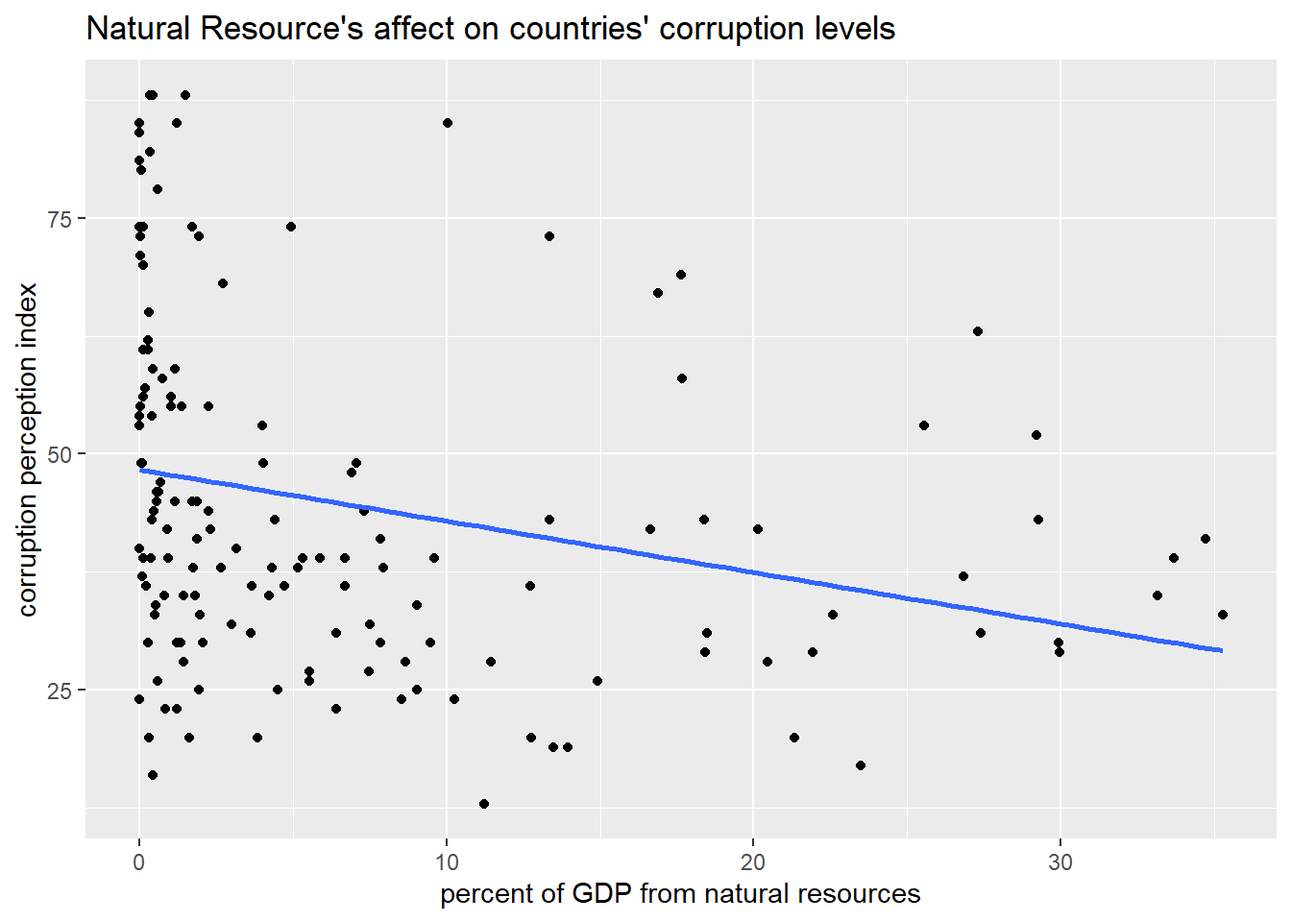
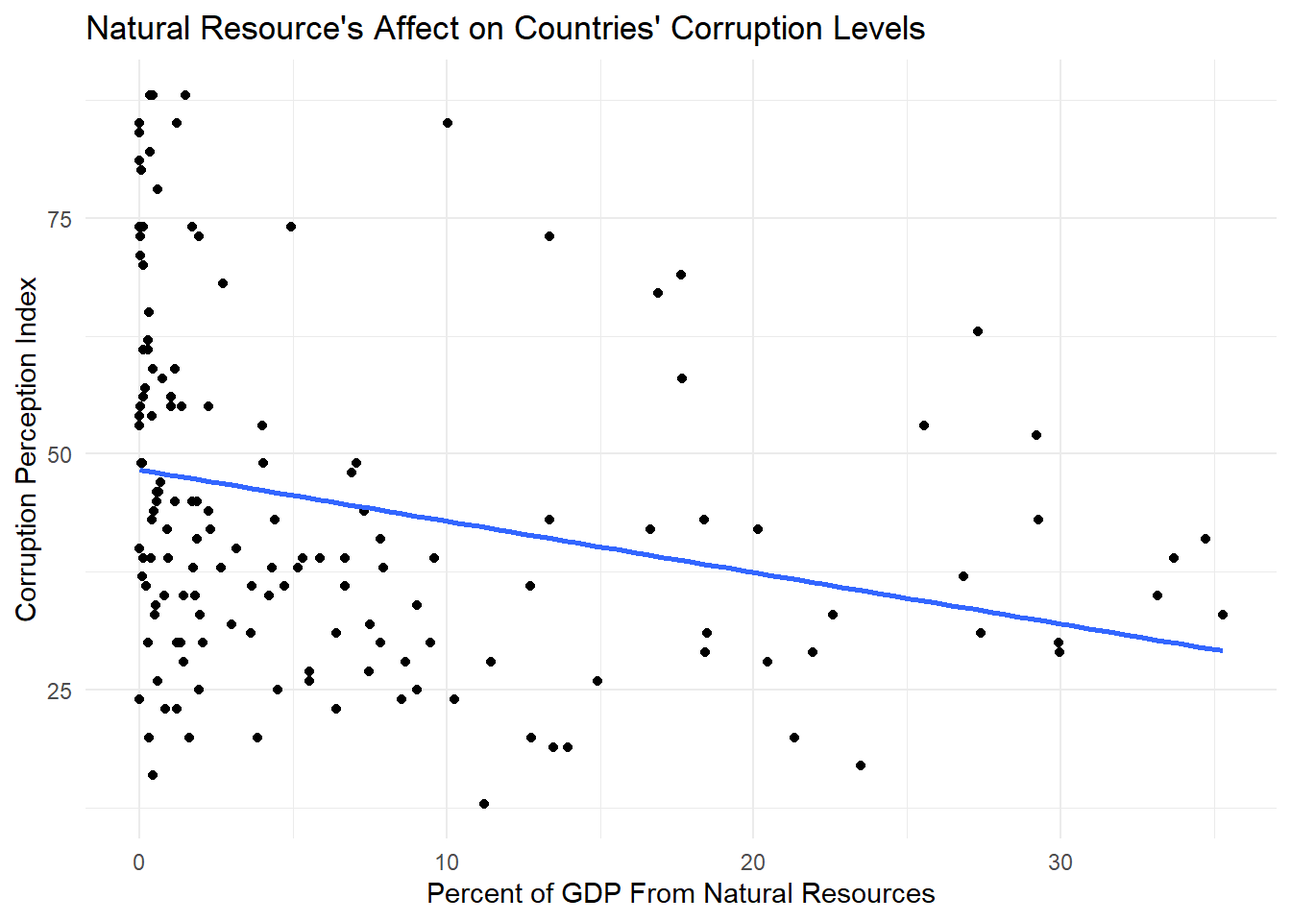
spelling and graph corrections

Changed region(s): [[0.2812, 0.0, 0.7188, 0.0625], [0.3438, 0.9375, 0.7188, 1.0], [0.0, 0.2812, 0.0312, 0.6875]]

diff --git a/docs/posts/Natural_resource_corruption/index.html b/docs/posts/Natural_resource_corruption/index.html
@@ -205,10 +205,10 @@ pre > code.sourceCode > span > a:first-child::before { text-decoration: underlin
 
 
 
-<p>Corruption is an issue in countries across the world. Government structures are complicated, intertwined, and often run behind closed doors. This makes it extremely difficult to solve. What are the main influences on a country’s corruption level? Is it even quantifiable? I was motivated by these questions to take a stab at a small piece of the corruption puzzle.</p>
-<p>In this post we attempt to answer the question <strong>does the percent of GDP from natural resources affect countries’ corruption levels?</strong></p>
+<p>Corruption is an issue in countries across the world. Government structures are complicated, intertwined, and often run behind closed doors. This makes corruption as a whole extremely difficult to solve. What are the main influences on a country’s corruption level? Is it even quantifiable? I was motivated by these questions to take a stab at looking at a small piece of the corruption puzzle.</p>
+<p>In this post we attempt to answer the question <strong>Does the percent of GDP from natural resources affect countries’ corruption levels?</strong></p>
 <p>My theory is that having natural resources that provide a large revenue source for a country could potentially invite corruption. Public officials may bribe gas, oil, or logging companies for a cut in the profit. Those companies may also bribe or attempt to coerce the government into larger sales or more land. Public officials may also prioritize company profits over public welfare, which has the potential to have large impacts on policy decisions that affect citizens.</p>
-<p>The theory that I am describing is a very simplified version of a well-studied and highly debated issue of <em>the resource curse</em>. Essentially natural resource wealth in countries (specifically developing countries) can lead to perverse effects on economic, social, and political well being. Case studies around the world have proved this to be true (although there is also case study evidence of the resource curse being “illusory”).</p>
+<p>The theory that I am describing is a very simplified version of a well-studied and highly debated issue called <em>the resource curse</em>. Essentially, natural resource wealth in countries (specifically developing countries) can lead to perverse effects on economic, social, and political well being. Case studies around the world have proved this to be true (although there is also case study evidence of the resource curse being “illusory”).</p>
 <table class="caption-top table">
 <colgroup>
 <col style="width: 100%">
@@ -226,29 +226,30 @@ pre > code.sourceCode > span > a:first-child::before { text-decoration: underlin
 </table>
 <p>Everyone wants to solve corruption, but it’s a lot easier said than done. Corruption is a complicated issue with far more influences than most researchers are able to analyze in years of study, and certainly more than I can analyze in this short post.</p>
 <p>My analysis plan is to create visualizations and linear models that can help us to examine the possibility of a significant correlation between the percent of GDP in a country that comes from natural resources versus our corruption perception index.</p>
+<p>My plan is as follows:</p>
 <ol type="1">
-<li>read in data and clean</li>
-<li>make preliminary plot</li>
-<li>run a linear model</li>
-<li>graph the best fit line</li>
-<li>analyze results</li>
+<li>Read in and clean data</li>
+<li>Make preliminary plot</li>
+<li>Run linear model</li>
+<li>Graph best fit line</li>
+<li>Analyze results</li>
 </ol>
 <section id="sources" class="level2">
 <h2 class="anchored" data-anchor-id="sources">Sources</h2>
 <section id="corruption-perception-index" class="level3">
 <h3 class="anchored" data-anchor-id="corruption-perception-index">Corruption Perception Index</h3>
 <p><img src="https://images.transparencycdn.org/images/CPI2021_Map_EN_2022-01-24-142835_wbln.jpg" alt="Corruption Perception Index 2021 Map" width="500"></p>
-<p>Our data comes from two different sources. The first source is for our corruption level data. We used a dataset from <em>Transparency International</em>, an organization that works to fight corruption worldwide. The organization has many facets, including a think tank, a UNESCO consultant, and is involved in the UN.</p>
-<p>They created a corruption perceptions index, which measures levels of corruption in 180 countries around the world from 0 (highly corrupt) to 100 (very clean). Transparency International takes data from 13 sources, such as banks, think tanks, and research advisory firms around the world. Each of these organizations ask leading experts in their field multiple questions that can be used to gage corruption levels. Some sources only cover specific regions or continents, while others cover the majority of the world. Transparency International then takes the information and standardizes it on a scale of zero to one hundred,“this standardisation is done by subtracting the mean of each source in the baseline year from each country score and then dividing by the standard deviation of that source in the baseline year [and]… …transformed to the CPI scale by multiplying with the value of the CPI standard deviation in 2012 (20) and adding the mean of CPI in 2012 (45), so that the data set fits the CPI’s 0-100 scale” (CPI report short methodology 2021). They then calculate the average for each country to find their published score.</p>
+<p>Our data comes from two different sources. The first is for our corruption level data. We used a dataset from <em>Transparency International</em>, an organization that works to fight corruption worldwide. The organization has many facets, including acting as a think tank, a UNESCO consultant, and is involved in the UN.</p>
+<p>They created a corruption perceptions index, which measures levels of corruption in 180 countries around the world from 0 (highly corrupt) to 100 (very clean). Transparency International takes data from 13 sources, such as banks, think tanks, and research advisory firms around the world. Each of these organizations ask leading experts in their field multiple questions that can be used to gauge corruption levels. Some sources only cover specific regions or continents, while others cover the majority of the world. Transparency International then takes the information and standardizes it on a scale of zero to one hundred,“this standardization is done by subtracting the mean of each source in the baseline year from each country score and then dividing by the standard deviation of that source in the baseline year [and]… …transformed to the CPI scale by multiplying with the value of the CPI standard deviation in 2012 (20) and adding the mean of CPI in 2012 (45), so that the data set fits the CPI’s 0-100 scale” (CPI report short methodology 2021). They then calculate the average for each country to find their published score.</p>
 <section id="limitations-of-the-data" class="level4">
 <h4 class="anchored" data-anchor-id="limitations-of-the-data">Limitations of the data</h4>
-<p>The data itself, as well as the way I use it comes with some caveats. Firstly, Transparency International uses varying organizations to get these scores, which in turn use varying methods to get their scores. Although the scores are then standardized, it is still not a completely equal comparison for every single country. In my statistical analysis, I use this corruption <strong>perception</strong> index as a true corruption index for each country. There are clearly limitations to what anyone can truly know about the country in their country, and this index simply measures perceptions for that very reason, but for the purposes of my calculations I treat these numbers as true and fair values. In order to simplify my analysis, I am also not including the standard errors for these values, which could potentially oversimplify the results of the index.</p>
+<p>The data itself, as well as the way I use it, comes with some caveats. Firstly, Transparency International uses varying organizations to get these scores, which in turn use varying methods. Although the scores are then standardized, it is still not a completely equal comparison for every single country. In my statistical analysis, I use this corruption <strong>perception</strong> index as a true corruption index for each country. There are clearly limitations to what anyone can truly know about the corruption in their country, and this index simply measures perceptions for that very reason. For the purposes of my calculations, I treat these numbers as true and fair values. In order to simplify my analysis, I am also not including the standard errors for these values, which could potentially oversimplify the results of the index.</p>
 <p>Transparency International. (2021). 2021 Corruptions Perceptions Index. Transparency.org. https://www.transparency.org/en/cpi/2021.</p>
 </section>
 </section>
 <section id="percent-of-gdp-from-natural-resources" class="level3">
 <h3 class="anchored" data-anchor-id="percent-of-gdp-from-natural-resources">Percent of GDP from Natural Resources</h3>
-<p>The natural resource data comes from the World Bank Group, an organization with 189 member countries, working to give funds to low income countries. Their site also has a catalog of open data about economic development worldwide. The dataset we used was the “World Development Indicators: Contribution of natural resources to gross domestic product” table. I have used data from 2021 in order to have consistency in the year across the board.</p>
+<p>The natural resource data comes from the World Bank Group, an organization with 189 member countries, working to give funds to low income countries. Their site also contains a catalog of open data about economic development worldwide. The dataset we used was the “World Development Indicators: Contribution of natural resources to gross domestic product” table. I have used data from 2021 in order to have consistency in year across the board.</p>
 <section id="limitations-of-the-data-1" class="level4">
 <h4 class="anchored" data-anchor-id="limitations-of-the-data-1">Limitations of the data</h4>
 <p>Although this data is open source, we have no information about how these numbers were acquired. We trust at face value that this dataset is correct.</p>
@@ -322,10 +323,10 @@ pre > code.sourceCode > span > a:first-child::before { text-decoration: underlin
 <div class="sourceCode cell-code" id="cb4"><pre class="sourceCode r code-with-copy"><code class="sourceCode r"><span id="cb4-1"><a href="#cb4-1" aria-hidden="true" tabindex="-1"></a><span class="co"># Plot the data</span></span>
 <span id="cb4-2"><a href="#cb4-2" aria-hidden="true" tabindex="-1"></a>first_plot <span class="ot">&lt;-</span> <span class="fu">ggplot</span>(corrupt_resource_select, <span class="fu">aes</span>(<span class="at">x=</span>total_natural_resources_rents_percent_of_gdp, <span class="at">y =</span> cpi_score_2021)) <span class="sc">+</span></span>
 <span id="cb4-3"><a href="#cb4-3" aria-hidden="true" tabindex="-1"></a>  <span class="fu">geom_point</span>() <span class="sc">+</span></span>
-<span id="cb4-4"><a href="#cb4-4" aria-hidden="true" tabindex="-1"></a>  <span class="fu">xlab</span>(<span class="st">"percent of GDP from natural resources"</span>) <span class="sc">+</span></span>
-<span id="cb4-5"><a href="#cb4-5" aria-hidden="true" tabindex="-1"></a>  <span class="fu">ylab</span>(<span class="st">"corruption perception index"</span>) <span class="sc">+</span></span>
-<span id="cb4-6"><a href="#cb4-6" aria-hidden="true" tabindex="-1"></a>  <span class="fu">labs</span>(<span class="at">title =</span> <span class="st">"Natural Resource's affect on countries' corruption levels"</span>) <span class="sc">+</span></span>
-<span id="cb4-7"><a href="#cb4-7" aria-hidden="true" tabindex="-1"></a>  <span class="fu">theme_grey</span>() </span>
+<span id="cb4-4"><a href="#cb4-4" aria-hidden="true" tabindex="-1"></a>  <span class="fu">xlab</span>(<span class="st">"Percent of GDP from Natural Resources"</span>) <span class="sc">+</span></span>
+<span id="cb4-5"><a href="#cb4-5" aria-hidden="true" tabindex="-1"></a>  <span class="fu">ylab</span>(<span class="st">"Corruption Perception Index"</span>) <span class="sc">+</span></span>
+<span id="cb4-6"><a href="#cb4-6" aria-hidden="true" tabindex="-1"></a>  <span class="fu">labs</span>(<span class="at">title =</span> <span class="st">"Natural Resource's Affect on Countries' Corruption Levels"</span>) <span class="sc">+</span></span>
+<span id="cb4-7"><a href="#cb4-7" aria-hidden="true" tabindex="-1"></a>  <span class="fu">theme_minimal</span>() </span>
 <span id="cb4-8"><a href="#cb4-8" aria-hidden="true" tabindex="-1"></a></span>
 <span id="cb4-9"><a href="#cb4-9" aria-hidden="true" tabindex="-1"></a><span class="fu">print</span>(first_plot)</span></code><button title="Copy to Clipboard" class="code-copy-button"><i class="bi"></i></button></pre></div>
 </details>
@@ -389,7 +390,7 @@ rents percent of gdp</td>
 
 </div>
 </div>
-<p>There are a few numbers here that are of interest to us. First let’s look at the intercept and the total_natural_resources_rents_percent_of_gdp (the slope). According to our model, if our hypothetical country had no GDP resulting from natural resources, then the corruption level would be at 48. We could maybe buy this if we hadn’t looked at the graph, but when we look at our data points visually it looks like our intercept is really just halfway in between our huge cluster of points around zero that seem to be evenly dispersed on the y axis. When looking at the slope we can also see that it’s very small. Each percentage point increase in GDP results in a less than 1 index level decrease.</p>
+<p>There are a few numbers here that are of interest to us. First let’s look at the intercept and the ‘total_natural_resources_rents_percent_of_gdp’ (the slope). According to our model, if our hypothetical country had no GDP resulting from natural resources, the corruption level would be at 48. We could maybe buy this if we hadn’t looked at the graph, but when we look at our data points visually it looks like our intercept is really just halfway in between our huge cluster of points around zero that seem to be evenly dispersed on the y axis. When looking at the slope we can also see that it’s very small. Each percentage point increase in GDP results in a less than 1 index level decrease.</p>
 <p>The p-values for both our intercept and slope are very small. Our intercept is less than .001 (essentially zero for our purposes) and our slope has a p-value of .000106, also a very small number. Both are far below .05, the number needed for a value to be statistically significant. So if these values are both statistically significant, why do I still not trust that it’s meaningful?</p>
 <p>Let’s look at adjusted R squared value. It’s about 0.07. R squared is always a value from 0 to 1, where 0 means that the model explains essentially zero percent of the change in y, and 1 means that the model is the perfect fit and the variable explains 100 percent of the change in y. Our value is less than .1, essentially meaning that the percent of GDP from natural resources explains just over 7 percent of the corruption levels in countries. So our model is statistically significant but explains very little of corruption levels.</p>
 <p>This makes sense when we look at our graph with our best fit line. If we squint at the graph, we can <em>maybe</em> see a correlation, but it’s certainly a stretch. The graph, along with our linear model summary, makes us think that there is definitely omitted variable bias here.</p>
@@ -398,10 +399,10 @@ rents percent of gdp</td>
 <summary>Code</summary>
 <div class="sourceCode cell-code" id="cb6"><pre class="sourceCode r code-with-copy"><code class="sourceCode r"><span id="cb6-1"><a href="#cb6-1" aria-hidden="true" tabindex="-1"></a>smooth_plot <span class="ot">&lt;-</span> <span class="fu">ggplot</span>(corrupt_resource_select, <span class="fu">aes</span>(<span class="at">x=</span>total_natural_resources_rents_percent_of_gdp, <span class="at">y =</span> cpi_score_2021)) <span class="sc">+</span></span>
 <span id="cb6-2"><a href="#cb6-2" aria-hidden="true" tabindex="-1"></a>  <span class="fu">geom_point</span>() <span class="sc">+</span></span>
-<span id="cb6-3"><a href="#cb6-3" aria-hidden="true" tabindex="-1"></a>  <span class="fu">xlab</span>(<span class="st">"percent of GDP from natural resources"</span>) <span class="sc">+</span></span>
-<span id="cb6-4"><a href="#cb6-4" aria-hidden="true" tabindex="-1"></a>  <span class="fu">ylab</span>(<span class="st">"corruption perception index"</span>) <span class="sc">+</span></span>
-<span id="cb6-5"><a href="#cb6-5" aria-hidden="true" tabindex="-1"></a>  <span class="fu">labs</span>(<span class="at">title =</span> <span class="st">"Natural Resource's affect on countries' corruption levels"</span>) <span class="sc">+</span></span>
-<span id="cb6-6"><a href="#cb6-6" aria-hidden="true" tabindex="-1"></a>  <span class="fu">theme_grey</span>() <span class="sc">+</span></span>
+<span id="cb6-3"><a href="#cb6-3" aria-hidden="true" tabindex="-1"></a>  <span class="fu">xlab</span>(<span class="st">"Percent of GDP From Natural Resources"</span>) <span class="sc">+</span></span>
+<span id="cb6-4"><a href="#cb6-4" aria-hidden="true" tabindex="-1"></a>  <span class="fu">ylab</span>(<span class="st">"Corruption Perception Index"</span>) <span class="sc">+</span></span>
+<span id="cb6-5"><a href="#cb6-5" aria-hidden="true" tabindex="-1"></a>  <span class="fu">labs</span>(<span class="at">title =</span> <span class="st">"Natural Resource's Affect on Countries' Corruption Levels"</span>) <span class="sc">+</span></span>
+<span id="cb6-6"><a href="#cb6-6" aria-hidden="true" tabindex="-1"></a>  <span class="fu">theme_minimal</span>() <span class="sc">+</span></span>
 <span id="cb6-7"><a href="#cb6-7" aria-hidden="true" tabindex="-1"></a><span class="fu">geom_smooth</span>(<span class="at">formula =</span> y <span class="sc">~</span> x,</span>
 <span id="cb6-8"><a href="#cb6-8" aria-hidden="true" tabindex="-1"></a>              <span class="at">se =</span> <span class="cn">FALSE</span>,</span>
 <span id="cb6-9"><a href="#cb6-9" aria-hidden="true" tabindex="-1"></a>              <span class="at">method =</span> lm)</span>
@@ -418,13 +419,13 @@ rents percent of gdp</td>
 </section>
 <section id="lets-regroup-and-think-about-what-other-variables-could-be-contributing-to-corruption-levels." class="level3">
 <h3 class="anchored" data-anchor-id="lets-regroup-and-think-about-what-other-variables-could-be-contributing-to-corruption-levels.">Let’s regroup and think about what other variables could be contributing to corruption levels.</h3>
-<p>My new theory is that the type of government could be a major contributing factor in corruption levels. It’s possible that this is an interactive model. My theory is that democratic countries will have a much less steep negative slope because the percent of GDP from natural resources would have less of an effect on corruption. Elections keep officials much more accountable. On the other hand, autocracies might have a steeper negative slope, as more money coming from a country’s natural resource could lead to an increase in corruption as there is more money or resources that could be exploited. Let’s load in another dataset that has information on political regimes worldwide and test my theory.</p>
-<p>My new analysis plan is to add political regime type to my model as an interaction. We can then graph and analyze the data to see if there’s a correlation now that political regime type is added.</p>
+<p>My new theory is that the type of government could be a major contributing factor in corruption levels. It’s possible that this is an interactive model. My theory is that democratic countries will have a much less steep negative slope because the percent of GDP from natural resources would have less of an effect on corruption. Elections keep officials much more accountable. On the other hand, autocracies might have a steeper negative slope, as more money coming from a country’s natural resources could lead to an increase in corruption through exploitation. Let’s load in another dataset that has information on political regimes worldwide and test my theory.</p>
+<p>My new analysis plan is to add political regime types to my model as an interaction. We can then graph and analyze the data to see if there’s a stronger correlation now that political regime type has been added.</p>
 <ol type="1">
-<li>read in data and clean</li>
-<li>make interactive plot</li>
-<li>run a linear model</li>
-<li>analyze results</li>
+<li>Read in data and clean</li>
+<li>Make interactive plot</li>
+<li>Run a linear model</li>
+<li>Analyze results</li>
 </ol>
 <section id="about-this-data" class="level4">
 <h4 class="anchored" data-anchor-id="about-this-data">About this data</h4>
@@ -437,7 +438,7 @@ rents percent of gdp</td>
 <li>3 represents liberal democracies, where “citizens have further individual and minority rights, are equal before the law, and the actions of the executive are constrained by the legislative and the courts”</li>
 </ul>
 <p>(all descriptions come from the dataset’s metadata) For clarity, I clean the data to change the numbers to the regime type</p>
-<p>The data comes from the Regimes of the World (RoW) data published by the Varieties of Democracy (V-Dem) project. Political scientists Anna Lührmann, Marcus Tannenberg, and Staffan Lindberg compiled assessments from anonymous experts in academia, media, or civil society to gage democracy levels.</p>
+<p>The data comes from the Regimes of the World (RoW) dataset, published by the Varieties of Democracy (V-Dem) project. Political scientists Anna Lührmann, Marcus Tannenberg, and Staffan Lindberg compiled assessments from anonymous experts in academia, media, or civil society to gauge democracy levels.</p>
 </section>
 <section id="limitations-to-our-data" class="level4">
 <h4 class="anchored" data-anchor-id="limitations-to-our-data">Limitations to our data</h4>
@@ -485,15 +486,15 @@ rents percent of gdp</td>
 <summary>Code</summary>
 <div class="sourceCode cell-code" id="cb10"><pre class="sourceCode r code-with-copy"><code class="sourceCode r"><span id="cb10-1"><a href="#cb10-1" aria-hidden="true" tabindex="-1"></a>regime_plot <span class="ot">&lt;-</span> <span class="fu">ggplot</span>(corrupt_nat_dem_select, <span class="fu">aes</span>(<span class="at">x =</span> total_natural_resources_rents_percent_of_gdp, <span class="at">y =</span> cpi_score_2021, <span class="at">color =</span> political_regime)) <span class="sc">+</span></span>
 <span id="cb10-2"><a href="#cb10-2" aria-hidden="true" tabindex="-1"></a>  <span class="fu">geom_point</span>() <span class="sc">+</span></span>
-<span id="cb10-3"><a href="#cb10-3" aria-hidden="true" tabindex="-1"></a>   <span class="fu">xlab</span>(<span class="st">"percent of GDP from natural resources"</span>) <span class="sc">+</span></span>
-<span id="cb10-4"><a href="#cb10-4" aria-hidden="true" tabindex="-1"></a>  <span class="fu">ylab</span>(<span class="st">"corruption perception index"</span>) <span class="sc">+</span></span>
-<span id="cb10-5"><a href="#cb10-5" aria-hidden="true" tabindex="-1"></a>  <span class="fu">labs</span>(<span class="at">title =</span> <span class="st">"Natural Resource's affect on countries' corruption levels"</span>,</span>
+<span id="cb10-3"><a href="#cb10-3" aria-hidden="true" tabindex="-1"></a>   <span class="fu">xlab</span>(<span class="st">"Percent of GDP From Natural Resources"</span>) <span class="sc">+</span></span>
+<span id="cb10-4"><a href="#cb10-4" aria-hidden="true" tabindex="-1"></a>  <span class="fu">ylab</span>(<span class="st">"Corruption Perception Index"</span>) <span class="sc">+</span></span>
+<span id="cb10-5"><a href="#cb10-5" aria-hidden="true" tabindex="-1"></a>  <span class="fu">labs</span>(<span class="at">title =</span> <span class="st">"Natural Resource's Affect on Countries' Corruption Levels"</span>,</span>
 <span id="cb10-6"><a href="#cb10-6" aria-hidden="true" tabindex="-1"></a>       <span class="at">color =</span> <span class="st">"Political regime"</span>) <span class="sc">+</span></span>
-<span id="cb10-7"><a href="#cb10-7" aria-hidden="true" tabindex="-1"></a>  <span class="fu">theme_grey</span>() <span class="sc">+</span></span>
+<span id="cb10-7"><a href="#cb10-7" aria-hidden="true" tabindex="-1"></a>  <span class="fu">theme_minimal</span>() <span class="sc">+</span></span>
 <span id="cb10-8"><a href="#cb10-8" aria-hidden="true" tabindex="-1"></a>  <span class="fu">geom_smooth</span>(<span class="at">formula =</span> y <span class="sc">~</span> x,</span>
 <span id="cb10-9"><a href="#cb10-9" aria-hidden="true" tabindex="-1"></a>              <span class="at">se =</span> <span class="cn">FALSE</span>,</span>
 <span id="cb10-10"><a href="#cb10-10" aria-hidden="true" tabindex="-1"></a>              <span class="at">method =</span> lm) <span class="sc">+</span></span>
-<span id="cb10-11"><a href="#cb10-11" aria-hidden="true" tabindex="-1"></a>  <span class="fu">scale_color_hue</span>(<span class="at">labels =</span> <span class="fu">c</span>(<span class="st">"closed autocracies"</span>, <span class="st">"electorial autocracies"</span>, <span class="st">"electoral democracies"</span>, <span class="st">"liberal democracies"</span>))</span>
+<span id="cb10-11"><a href="#cb10-11" aria-hidden="true" tabindex="-1"></a>  <span class="fu">scale_color_hue</span>(<span class="at">labels =</span> <span class="fu">c</span>(<span class="st">"Closed Autocracies"</span>, <span class="st">"Electorial Autocracies"</span>, <span class="st">"Electoral Democracies"</span>, <span class="st">"Liberal Democracies"</span>))</span>
 <span id="cb10-12"><a href="#cb10-12" aria-hidden="true" tabindex="-1"></a></span>
 <span id="cb10-13"><a href="#cb10-13" aria-hidden="true" tabindex="-1"></a><span class="fu">print</span>(regime_plot)</span>
 <span id="cb10-14"><a href="#cb10-14" aria-hidden="true" tabindex="-1"></a><span class="do">## Warning: Removed 27 rows containing non-finite outside the scale range</span></span>
@@ -513,9 +514,12 @@ rents percent of gdp</td>
 <p>We can see that the liberal democracies line is actually positive, which means that the as natural resource profit goes up, they have less and less corruption. Interestingly, electoral democracies and electoral autocracies seem to have very similar negative slopes. The closed autocracies seem to have a mostly flat slope that it very slightly positive.</p>
 <p>These results are pretty unexpected. Let’s take a look at the linear model summary to check out our numbers.</p>
 <div class="cell">
+<details class="code-fold">
+<summary>Code</summary>
 <div class="sourceCode cell-code" id="cb11"><pre class="sourceCode r code-with-copy"><code class="sourceCode r"><span id="cb11-1"><a href="#cb11-1" aria-hidden="true" tabindex="-1"></a>lm2 <span class="ot">&lt;-</span> <span class="fu">lm</span>(total_natural_resources_rents_percent_of_gdp <span class="sc">~</span> cpi_score_2021 <span class="sc">+</span> political_regime <span class="sc">+</span>cpi_score_2021<span class="sc">:</span>political_regime, <span class="at">data =</span> corrupt_nat_dem_select)</span>
 <span id="cb11-2"><a href="#cb11-2" aria-hidden="true" tabindex="-1"></a></span>
 <span id="cb11-3"><a href="#cb11-3" aria-hidden="true" tabindex="-1"></a><span class="fu">tab_model</span>(lm2)</span></code><button title="Copy to Clipboard" class="code-copy-button"><i class="bi"></i></button></pre></div>
+</details>
 <div class="cell-output-display">
 <table class="caption-top table table-sm table-striped small" data-quarto-postprocess="true">
 <colgroup>
@@ -687,15 +691,15 @@ political regime<br>
 </div>
 </div>
 </div>
-<p>Unfortunately, we had to omit a good amount of countries because all of our datasets did not match. Despite this, we can still see a pattern of autocorrelation in our data. We can see in Northern Europe and in the Middle East, there is almost a gradient of colors because of autocorrelation. Countries close to red countries seem to be closer to red themselves, while countries close to blue countries seem to be closer to blue themselves. Similar colors are also clumped together in South American and Africa. This tells us that one country’s corruption levels are affecting others around it.</p>
+<p>Unfortunately, we had to omit a good amount of countries because all of our datasets did not match. Despite this, we can still see a pattern of autocorrelation in our data. We can see in Northern Europe and in the Middle East, there is almost a gradient of colors because of autocorrelation. Countries close to red countries seem to be closer to red themselves, while countries close to blue countries seem to be closer to blue themselves. Similar colors are also clumped together in South America and Africa. This tells us that one country’s corruption levels are affecting others around it.</p>
 </section>
 </section>
 <section id="summarizing-our-results" class="level2">
 <h2 class="anchored" data-anchor-id="summarizing-our-results">Summarizing our results</h2>
-<p>Our results are overall inconclusive. Our first linear model just looked at the percent of GDP from natural resources. There was no an obvious correlation from just looking at the data points on the graph, but our line of best fit revealed a negative slope, revealing that as the percent of GDP goes up, the corruption also goes up (a lower index number = more corruption). Although these results were statistically significant, the adjusted R squared value revealed that it only explained about nine percent of the corruption levels in countries around the world.</p>
+<p>Our results are overall inconclusive. Our first linear model just looked at the percent of GDP from natural resources. There was no an obvious correlation from just looking at the data points on the graph, but our line of best fit revealed a negative slope, revealing that as the percent of GDP goes up, the corruption also goes up (a lower index number = more corruption). Although these results were statistically significant, the adjusted R squared value revealed that it only explained about seven percent of the corruption levels in countries around the world.</p>
 <p>My solution to the low R squared value was to add another variable, as it was quite likely we had omitted variable bias. I decided to add political regime type as our additional variable. I logically assumed that the regime type would have differing affects on the relationship. When I added in political regimes however, I saw that my results were no longer statistically significant.</p>
-<p>In an effort to explore what else could be contributing to corruption levels, I decided to try the Moran’s I test, which allows us to see if there is autocorrelation in our data. The answer was yes, there appears to be some. That means that countries’ corruption levels are being affected by the levels around it. Maybe stability in the surrounding countries bring stability into their neighbors’ countries. Maybe corruption spills over across borders. If we think about natural resources as well, they don’t follow political lines. Natural resources will probably be similar in neighboring countries. All of these factors lead to a need to examine further and account for this autocorrelation in our analysis.</p>
-<p>If I had more time I would have continued exploring more variables and use our results from Moran’s I to account for our autocorrelation issue. Developed versus developing country, overall GDP amount, and economic systems would all be interesting to analyze in relation to corruption and natural resources as well. I am also skeptical that a linear model is truly the correct model to be using in this situation, as corruption is very complex and probably not a completely linear issue.</p>
+<p>In an effort to explore what else could be contributing to corruption levels, I decided to try the Moran’s I test, which allows us to see if there is autocorrelation in our data. The answer was yes, there appears to be some. That means that countries’ corruption levels are being affected by the levels around it. Maybe stability in the surrounding countries brings stability into their neighboring countries. Maybe corruption spills over across borders. If we think about natural resources as well, they don’t follow political lines. Natural resources will probably be similar in neighboring countries. All of these factors lead to a need to examine further and account for this autocorrelation in our analysis.</p>
+<p>If I had more time I would have continued exploring more variables and used our results from Moran’s I to account for our autocorrelation issue. Developed versus developing country, overall GDP amount, and economic systems would all be interesting to analyze in relation to corruption and natural resources as well. I am also skeptical that a linear model is truly the correct model to be using in this situation, as corruption is very complex and probably not a completely linear issue.</p>
 <p>My next steps would be to use my Moran’s I calculations to go back and reanalyze my data, as well as add in additional factors that I believe could be relevant.</p>
 <p>Full acknowledgements:</p>
 <table class="caption-top table">

diff --git a/docs/posts.html b/docs/posts.html
@@ -272,7 +272,7 @@ Jan 10, 2025
 </div>
 </a>
 </div>
-<div class="g-col-1" data-index="2" data-categories="Stats,R,MEDS" data-listing-date-sort="1733990400000" data-listing-file-modified-sort="1752528483099" data-listing-date-modified-sort="NaN" data-listing-reading-time-sort="21" data-listing-word-count-sort="4029">
+<div class="g-col-1" data-index="2" data-categories="Stats,R,MEDS" data-listing-date-sort="1733990400000" data-listing-file-modified-sort="1752893329420" data-listing-date-modified-sort="NaN" data-listing-reading-time-sort="21" data-listing-word-count-sort="4026">
 <a href="./posts/Natural_resource_corruption/index.html" class="quarto-grid-link">
 <div class="quarto-grid-item card h-100 card-left">
 <p class="card-img-top">
